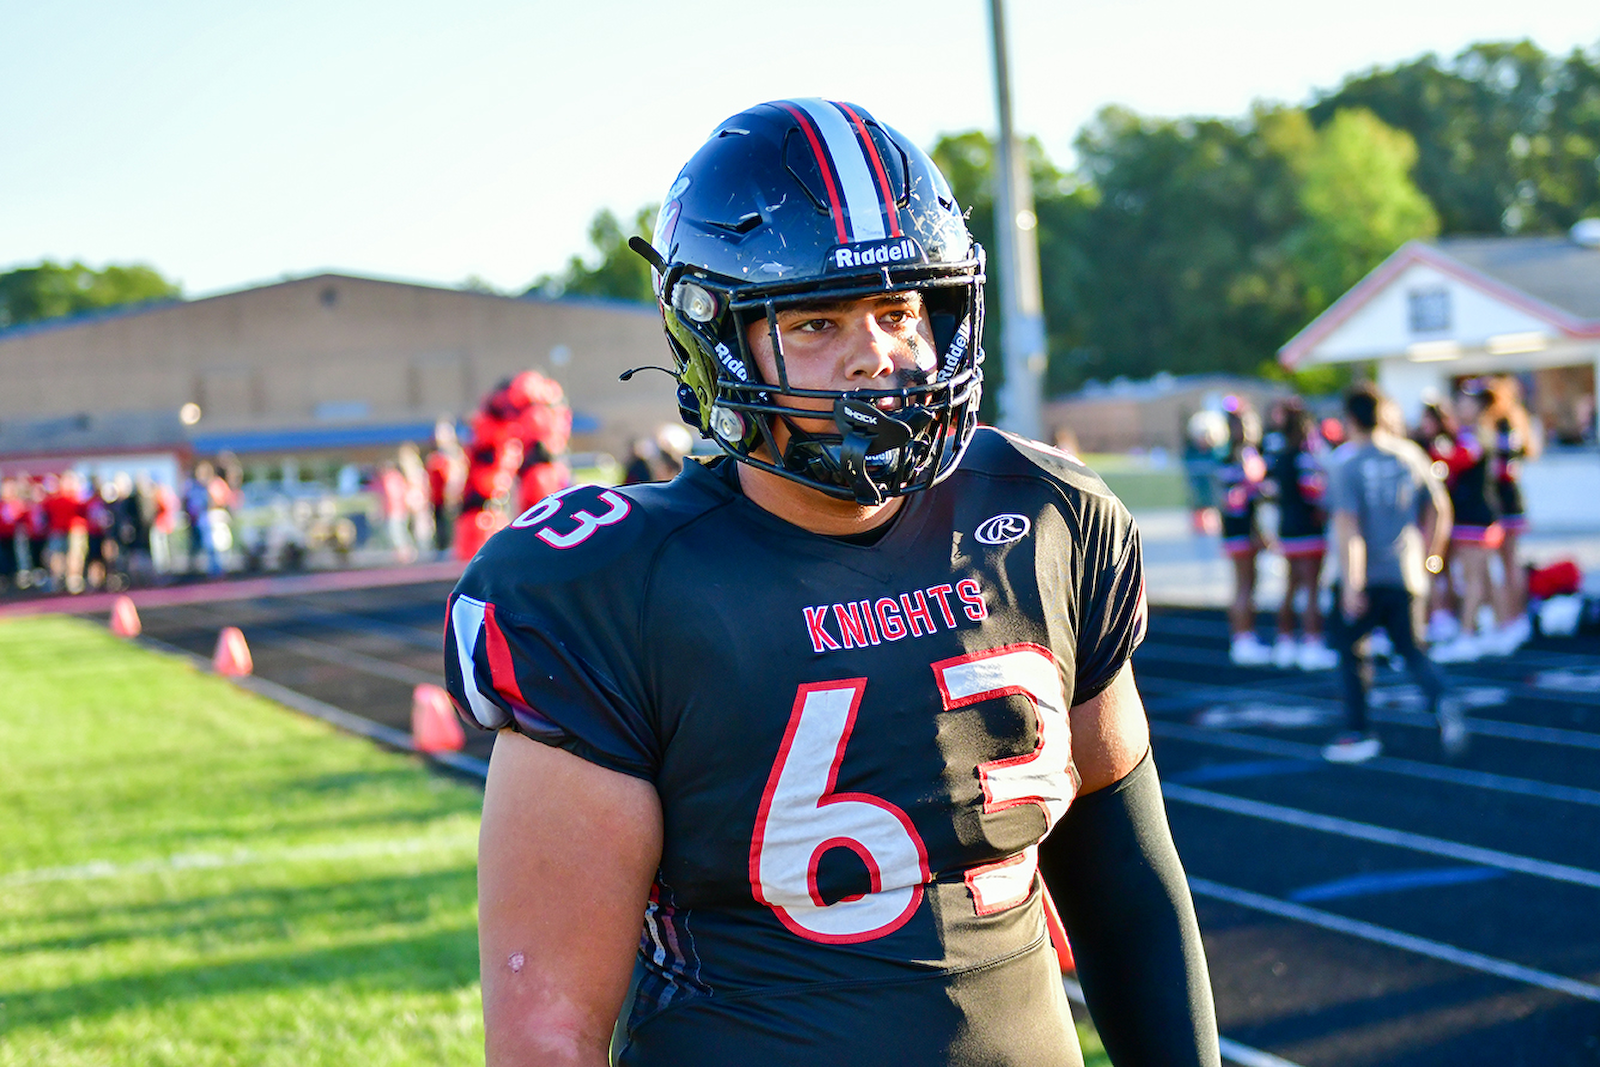
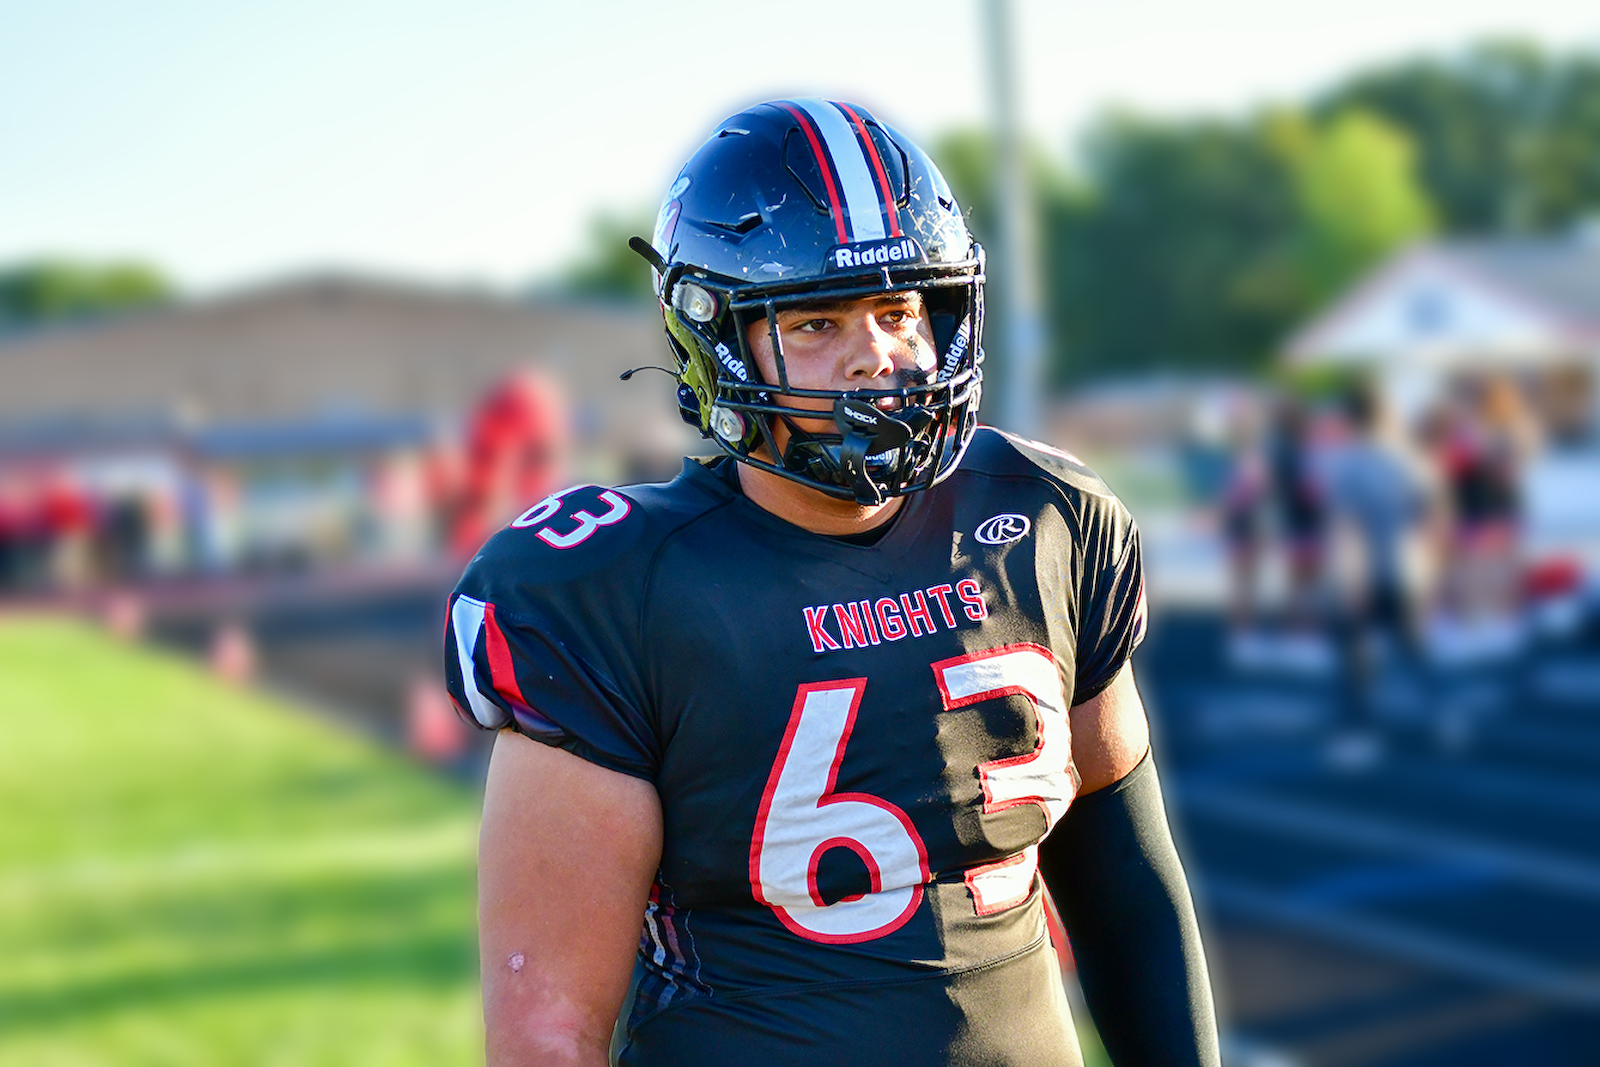
New Look, Updated Code

diff --git a/styles.css b/styles.css
@@ -1,48 +1,96 @@
 /* Common styles */
 h1 {
-    color: #ED7A9B;
+    color: #F0CAA3;
 }
-hr{
-    z-index: 2;
+
+html, body {
+    height: 100%;
+    margin: 0;
+    padding: 0;
 }
 
 /*** INDEX.HTML ***/
 /* Format for the Introduction/Header */
+.container {
+    position: relative;
+    
+    display: flex;
+    flex-direction: column;
+    justify-content: flex-start;
+    align-items: center;
+    
+}
+.content {
+    position: relative;
+    text-align: center;
+    margin-bottom: 2rem;
+}
+
 .header-container {
-    background-color: beige;
-    height: 100vh; /* You can adjust the height as needed */
-    position: relative; /* Enable absolute positioning within */
+    background-color: #00005C;
+    height: 100vh; /* Adjust height as needed */
 }
-.image-overlay {
-    position: absolute;
-    top: 0;
-    right: 0;
-    bottom: 0;
-    left: 0;
-    background: linear-gradient(to left, rgba(255, 255, 255, 0) 0%, beige 100%); /* Adjust the colors and gradient direction as needed */
-    z-index: 1; /* Place the overlay above the image */
-}
+
 .header-img {
-    position: relative; /* Ensure proper stacking order */
-    z-index: 0; /* Set the image below the overlay */
-    width: 180%; /* Adjust image width */
+    width: 100%; /* Adjust image width */
+    margin: 1rem 0; /* Add space above image */
+    
+    
 }
+.img-container {
+    display: flex;
+    justify-content: center; /* Horizontally center the content */
+    align-items: center;
+}
+
 .name-intro {
     font-size: 6rem;
     font-family: "Satisfy", cursive;
-    position: relative; /* Ensure proper stacking order */
-    z-index: 2; /* Place the text above the overlay */
+    margin-bottom: 1rem; /* Adjust space below the name */
 }
+
 .name-intro-subtext {
     font-size: 1.35rem;
-    position: relative;
     font-family: "Satisfy", cursive;
-    padding-left: 12%;
     font-style: italic;
+    color: #F0CAA3;
 }
-.intro-left {
-    padding-top: 5%;
+
+.content-wrapper {
+    background-color: #F0CAA3;
+    width: 130%;
+    max-width: 120%;
+    margin: 0 -5% auto; /* Adjust the negative margin to shift it slightly left */
+    padding: 0 20px;
+    display: flex;
+    justify-content: center; /* Horizontally center the content */
+    align-items: center; /* Vertically center the content */
+    flex-direction: column; /* Align children in a column */
 }
+
+
+.intro-about{
+    text-align: left;
+}
+.intro-about h2 {
+    text-align: center;
+    padding: 6% 0;
+    font-family: "Patrick Hand", cursive;
+}
+
+/* Media query for mobile devices */
+@media (max-width: 768px) {
+    /* CSS rules specific to mobile devices */
+    /* For example, you can adjust font size, padding, or layout */
+    body {
+        font-size: 14px;
+    }
+    .content-wrapper {
+        width: 100%;
+    }
+    /* Add more CSS rules as needed */
+}
+
 
 /* Navigation Bar Design */
 @import url(https://fonts.googleapis.com/css?family=Open+Sans);
@@ -68,7 +116,8 @@ nav ul li a {
     padding: 18px;
     font-family: "Open Sans";
     text-transform: uppercase;
-    color: rgba(0, 35, 122, 0.5);
+    /*color: #rgba(0, 35, 122, 0.5);*/
+    color: #F0CAA3;
     font-size: 18px;
     text-decoration: none;
     display: block;
@@ -80,36 +129,6 @@ nav ul li a:hover {
     color: rgba(0, 35, 122, 0.7);
 }
 
-/* Media queries for responsiveness */
-@media screen and (max-width: 768px) {
-    /* Adjustments for tablet devices and below */
-    .header-img {
-        width: 100%; /* Adjust image width for smaller screens */
-    }
-    .name-intro {
-        font-size: 4rem; /* Adjust font size for smaller screens */
-    }
-    .name-intro-subtext {
-        font-size: 1rem; /* Adjust font size for smaller screens */
-    }
-}
-
-@media screen and (max-width: 576px) {
-    /* Adjustments for mobile devices */
-    .header-img {
-        width: 100%; /* Adjust image width for smaller screens */
-    }
-    .name-intro {
-        font-size: 3rem; /* Adjust font size for smaller screens */
-    }
-    .name-intro-subtext {
-        font-size: 0.75rem; /* Adjust font size for smaller screens */
-    }
-    nav ul li a {
-        padding: 10px; /* Adjust padding for smaller screens */
-        font-size: 16px; /* Adjust font size for smaller screens */
-    }
-}
 
 
 
@@ -151,3 +170,12 @@ nav ul li a:hover {
     background-color: #0056b3;
   }
   
+/*** Footer ***/
+.footer{
+    position: relative;
+    
+    display: flex;
+    flex-direction: column;
+    justify-content: flex-start;
+    align-items: center;
+}

diff --git a/index.html b/index.html
@@ -11,47 +11,63 @@
     <link href="https://stackpath.bootstrapcdn.com/bootstrap/4.5.2/css/bootstrap.min.css" rel="stylesheet">
     <!-- Google Font Links-->
     <link href="https://fonts.googleapis.com/css2?family=Damion&family=Satisfy&display=swap" rel="stylesheet">
+    <link href="https://fonts.googleapis.com/css2?family=Damion&family=Patrick+Hand&family=Satisfy&display=swap" rel="stylesheet">
 
 </head>
 <body>
 
     <div class="header-container">
 
+      <header>
         <nav>
-            <ul>
-              <li>
-                <a href="about.html">About</a>
-              </li>
-              <li>
-                <a href="story.html">Story</a>
-              </li>
-              <li>
-                <a class="nav-brand" href="index.html">Jaden Sykes</a>
-              </li>
-              <li>
-                <a href="">Services</a>
-              </li>
-              <li>
-                <a href="contact.html">Contact</a>
-              </li>
-            </ul>
+          <ul>
+            <li>
+              <a href="about.html">About</a>
+            </li>
+            <li>
+              <a href="story.html">Story</a>
+            </li>
+            <li>
+              <a class="nav-brand" href="index.html">Jaden Sykes</a>
+            </li>
+            <li>
+              <a href="sports.html">Sports</a>
+            </li>
+            <li>
+              <a href="contact.html">Contact</a>
+            </li>
+          </ul>
         </nav>
+      </header>
 
         <div class="container">
-            <div class="row">
-                <div class="col-md-7 intro-left">
-                    <h1 class="name-intro">Jaden Sykes</h1>
-                    <h3 class="name-intro-subtext">An Aspiring Software Developer</h3> 
-                    <hr>    
-                </div>
-                
-                <div class="col-md-5">
-                    <div class="image-overlay"></div>
-                    <img class="header-img" src="images\meFootball.png" alt="">
-                </div>
-            </div>
+          <div class="content">
+              <div>
+                  <h3 class="name-intro-subtext">An Aspiring Software Developer</h3> 
+                  <h1 class="name-intro">Jaden Sykes</h1> 
+              </div>
+          </div>
+          <div class="content-wrapper">
+              <div class="row"> 
+                  <div class="col-4 img-container">
+                      <img class="header-img" src="images\cropped-me12.jpg" alt="">
+                  </div>
+                  <div class="col-8 intro-about">
+                      <h2>Come and Learn,</h2>
+                      <p>Learn about my progress into becoming a programmer in hopes of achieving my dream job, a software developer.
+                          Take a look at my progress and how I've progressed throughout these years as well as get to know a bit more
+                          about me and my passion for this!
+                      </p>
+                  </div>
+              </div>
+          </div>
         </div>
+      
 
+        
+      <footer class="footer">
+        <p>&copy; 2024 Jaden Sykes.</p>
+      </footer>
         <div class="container-fluid">
 
         </div>

diff --git a/contact.html b/contact.html
@@ -4,8 +4,36 @@
     <meta charset="UTF-8">
     <meta name="viewport" content="width=device-width, initial-scale=1.0">
     <title>Contact Me!</title>
+
+    <link rel="stylesheet" href="styles.css">
+    <script src="index.js"></script>
+    <!-- BootStrap -->
+    <link href="https://stackpath.bootstrapcdn.com/bootstrap/4.5.2/css/bootstrap.min.css" rel="stylesheet">
+    <!-- Google Font Links-->
+    <link href="https://fonts.googleapis.com/css2?family=Damion&family=Satisfy&display=swap" rel="stylesheet">
+    <link href="https://fonts.googleapis.com/css2?family=Damion&family=Patrick+Hand&family=Satisfy&display=swap" rel="stylesheet">
 </head>
 <body>
+  <nav>
+    <ul>
+      <li>
+        <a href="about.html">About</a>
+      </li>
+      <li>
+        <a href="story.html">Story</a>
+      </li>
+      <li>
+        <a class="nav-brand" href="index.html">Jaden Sykes</a>
+      </li>
+      <li>
+        <a href="sports.html">Sports</a>
+      </li>
+      <li>
+        <a href="contact.html">Contact</a>
+      </li>
+    </ul>
+  </nav>
+
     <div class="container">
         <h2>Contact Us</h2>
         <form id="contactForm">

diff --git a/sports.html b/sports.html
@@ -3,7 +3,7 @@
 <head>
     <meta charset="UTF-8">
     <meta name="viewport" content="width=device-width, initial-scale=1.0">
-    <title>About Me</title>
+    <title>Sports</title>
 
     <link rel="stylesheet" href="styles.css">
     <script src="index.js"></script>
@@ -11,10 +11,10 @@
     <link href="https://stackpath.bootstrapcdn.com/bootstrap/4.5.2/css/bootstrap.min.css" rel="stylesheet">
     <!-- Google Font Links-->
     <link href="https://fonts.googleapis.com/css2?family=Damion&family=Satisfy&display=swap" rel="stylesheet">
-
-    
+    <link href="https://fonts.googleapis.com/css2?family=Damion&family=Patrick+Hand&family=Satisfy&display=swap" rel="stylesheet">
 </head>
 <body>
+    
     <nav>
         <ul>
           <li>
@@ -37,5 +37,12 @@
 
 
 
+
+
+
+
+
+
+    
 </body>
 </html>

diff --git a/story.html b/story.html
@@ -13,6 +13,34 @@
     <link href="https://fonts.googleapis.com/css2?family=Damion&family=Satisfy&display=swap" rel="stylesheet">
 </head>
 <body>
+  <header>
+    <nav>
+      <ul>
+        <li>
+          <a href="about.html">About</a>
+        </li>
+        <li>
+          <a href="story.html">Story</a>
+        </li>
+        <li>
+          <a class="nav-brand" href="index.html">Jaden Sykes</a>
+        </li>
+        <li>
+          <a href="sports.html">Sports</a>
+        </li>
+        <li>
+          <a href="contact.html">Contact</a>
+        </li>
+      </ul>
+    </nav>
+  </header>
     
+
+
+    <!-- Idea?: I want to use a format like opener, Pic then text on left or right. For programming languages use a card 
+         or carousel to display them?w-->
+
+
+
 </body>
 </html>
